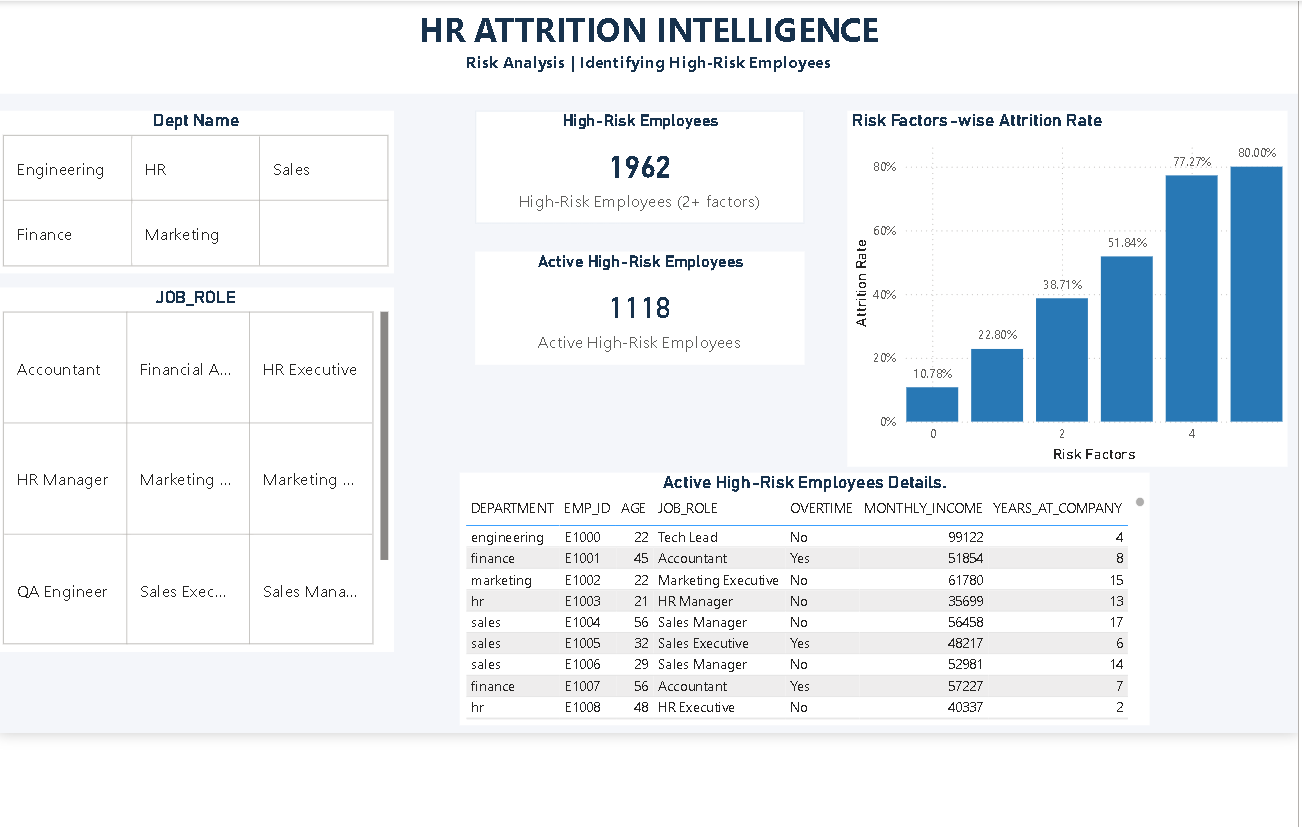
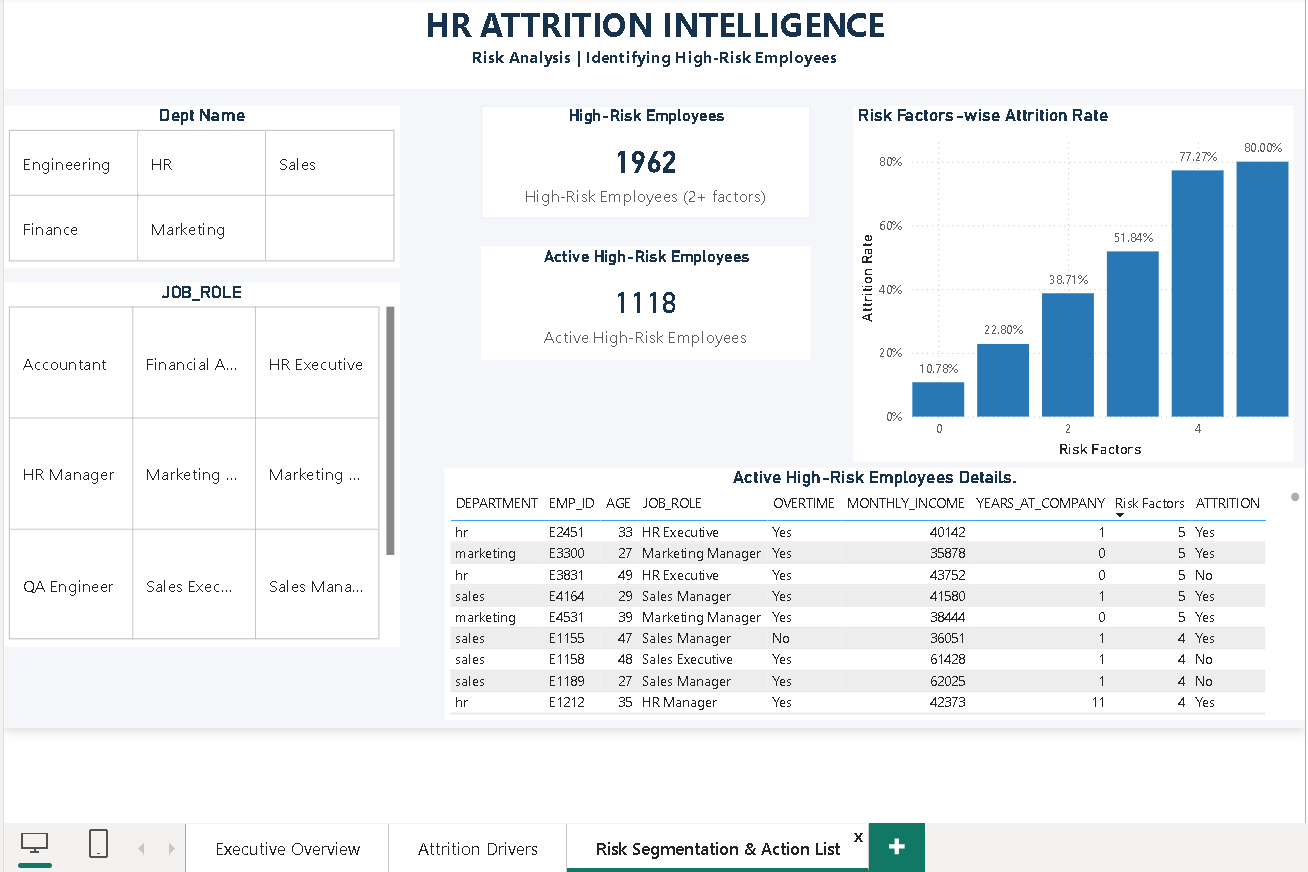
Final update: README aur Power BI page 3 theek kiya

diff --git a/README.md b/README.md
@@ -1,20 +1,20 @@
 # 📊 HR Attrition Intelligence
 
-An end-to-end HR analytics project. I cleaned HR data with SQL in Snowflake, found out why employees leave, trained a model to predict who might leave, and showed the results in a live Streamlit app and a 3-page Power BI dashboard.
+In this project I looked at what is linked to employees leaving a company. I kept the raw HR files in AWS S3, cleaned them with SQL in Snowflake, studied the patterns, trained a model to guess who might leave, and showed the results in a live Streamlit app and a 3-page Power BI dashboard.
 
 🔗 **Live app:** https://hr-attrition-intelligence-adzrfc9t4ztbjwglgojzvc.streamlit.app/
 
 ---
 
-## 🎯 Project Objective
+## 🎯 What this project is about
 
-This project is based on a class case study. The company, TechNova, is made up. It has about 5,000 employees in 5 departments (Sales, Engineering, HR, Marketing, Finance). In the case study, attrition went from 18% to 27% in two quarters, and HR only learned why people left after they had left.
+This project is based on a class case study. The company, TechNova, is made up. It has about 5,000 employees in 5 departments (Sales, Engineering, HR, Marketing and Finance). In the case study, attrition went from 18% to 27% in two quarters. HR only found out why people left after they had already left.
 
-I built this project to find out why employees leave and to see if a model can predict who is likely to leave.
+I wanted to find out what is linked to people leaving, and to see if a model can guess who may leave next.
 
 ---
 
-## 🛠 Tools & Technologies
+## 🛠 Tools I used
 
 | Area | Tools |
 |---|---|
@@ -29,7 +29,7 @@ I built this project to find out why employees leave and to see if a model can p
 
 ---
 
-## 🏗 Project Flow
+## 🏗 How the project works
 
 ```
 Source CSV files (employee info, performance, salary)
@@ -41,32 +41,33 @@ AWS S3 (raw/ folder)
 Snowflake: raw tables -> clean tables -> hr_attrition_final
         |
         v
-Python: EDA charts + Random Forest model
+Python: charts + Random Forest model
         |
         +--> Streamlit app
         +--> Power BI dashboard
 ```
 
-- **AWS S3:** I uploaded the source CSV files to a bucket, in a `raw/` folder.
-- **Snowflake:** I made an external stage that points to the S3 folder and loaded the 3 main files (employee info, performance, salary) into 3 raw tables with `COPY INTO`. Then I cleaned them with SQL (trim spaces, change types, remove duplicates, fill missing job satisfaction with 3) and joined them into one table called `hr_attrition_final`. All the SQL is in `sql/pipeline.sql`.
+- **AWS S3:** I uploaded the source files to a bucket, in a `raw/` folder.
+- **Snowflake:** I made an external stage that points to the S3 folder. Then I loaded the 3 main files (employee info, performance and salary) into 3 raw tables with `COPY INTO`.
+- **SQL cleaning:** I trimmed spaces, changed the data types, removed duplicates and filled missing job satisfaction with 3. Then I joined the 3 tables into one table called `hr_attrition_final`. All the SQL is in `sql/pipeline.sql`.
 - **Python:** `src/eda.py` makes the charts and `src/train_model.py` trains the model.
 - **Streamlit and Power BI:** these show the results.
 
-> **Note:** My Snowflake free trial ended, so the app now reads a CSV copy of the final table (`data/hr_attrition_final.csv`). The file `rebuild_data.py` makes the same table from the source CSVs, using the same cleaning steps as the SQL.
+> **Note:** My Snowflake free trial ended, so the app now reads a CSV copy of the final table (`data/hr_attrition_final.csv`). The file `rebuild_data.py` makes the same table from the source files, using the same cleaning steps as the SQL.
 
 ---
 
-## 📌 Key KPIs
+## 📌 Main numbers
 
-| Metric | Value |
+| What | Value |
 |---|---|
 | Total employees | 4,700 |
-| Employees left | 1,359 |
+| Employees who left | 1,359 |
 | Attrition rate | 28.9% |
 | Average monthly income | ₹61,279 |
-| Current employees with 2+ risk factors | 1,118 |
+| Current employees with 2 or more risk factors | 1,118 |
 
-The data is synthetic (not real).
+The data is made up (synthetic). It is not from a real company.
 
 Columns: EMP_ID, AGE, DEPARTMENT, JOB_ROLE, GENDER, MARITAL_STATUS, PERFORMANCE_RATING, OVERTIME, DISTANCE_FROM_HOME, ATTRITION, MONTHLY_INCOME, YEARS_AT_COMPANY, JOB_SATISFACTION.
 
@@ -74,31 +75,33 @@ Columns: EMP_ID, AGE, DEPARTMENT, JOB_ROLE, GENDER, MARITAL_STATUS, PERFORMANCE_
 
 ## 📈 Power BI Dashboard
 
-I made a 3-page dashboard. The file is `powerbi/HR_Attrition_Dashboard.pbix` (open it with Power BI Desktop on Windows).
+I made a 3-page dashboard in Power BI. The file is `powerbi/HR_Attrition_Dashboard.pbix`. You need Power BI Desktop on Windows to open it.
 
-### 1. Executive Overview
-Total employees, employees left, attrition rate, average income, high-risk employees, and attrition by department, job role and tenure. It also has a decomposition tree.
+### Page 1: Executive Overview
+Total employees, employees who left, attrition rate, average income and high-risk employees. It also shows attrition by department, job role and tenure, and a decomposition tree.
 
 ![Executive overview](outputs/powerbi_executive_overview.png)
 
-### 2. Attrition Drivers
-Attrition rate by distance, income, age, performance, job satisfaction and overtime, plus a Key Influencers chart.
+### Page 2: Attrition Drivers
+Attrition rate by distance, income, age, performance rating, job satisfaction and overtime. There is also a Key Influencers chart.
 
 ![Attrition drivers](outputs/powerbi_attrition_drivers.png)
 
-### 3. Risk Analysis
-A simple risk score made by counting risk factors: overtime, low income, long distance, short tenure and low job satisfaction. Employees with 2 or more risk factors are marked high-risk. The page also shows a list of those employees.
+### Page 3: Risk Analysis
+For every employee I counted 5 risk factors: overtime, low income, long distance, short tenure and low job satisfaction. Employees with 2 or more risk factors are called high-risk. The page also has a table that lists the current employees with 2 or more risk factors, with the highest risk at the top.
 
 ![Risk analysis](outputs/powerbi_risk_analysis.png)
 
-**Dashboard features:** slicers (department, job role, overtime, age group, gender, marital status), KPI cards, decomposition tree, key influencers, and charts that filter each other when you click.
+### What you can do in the dashboard
+- Use slicers for department, job role, overtime, age group, gender and marital status
+- Click on a chart and the other charts change with it
+- Open the decomposition tree and key influencers charts
 
-### 🧮 DAX used
-
+### DAX in the dashboard
 - **Measures:** Total Employees, Employees Left, Attrition Rate, Avg Monthly Income, Avg Tenure, Avg Job Satisfaction, Overtime %, High-Risk Employees
-- **Calculated columns:** Age Group, Income Band, Tenure Band, Distance Band, Risk Factors (counts how many of the 5 risk factors an employee has)
+- **Calculated columns:** Age Group, Income Band, Tenure Band, Distance Band and Risk Factors (counts how many of the 5 risk factors an employee has)
 
-> The data is saved inside the .pbix file. Please don't click Refresh, because it was connected to Snowflake and my trial has ended.
+> The data is saved inside the .pbix file. Please do not click Refresh, because the file was connected to Snowflake and my trial has ended.
 
 ---
 
@@ -106,51 +109,51 @@ A simple risk score made by counting risk factors: overtime, low income, long di
 
 🔗 https://hr-attrition-intelligence-adzrfc9t4ztbjwglgojzvc.streamlit.app/
 
-- **Dashboard tab:** filter by department and tenure, see the main numbers and charts. Clicking a bar in the department chart filters the other charts.
-- **Predict Attrition tab:** enter an employee's details and the model gives a risk result.
+- **Dashboard tab:** filter by department and tenure and see the main numbers and charts. If you click a bar in the department chart, the charts below it change too.
+- **Predict Attrition tab:** type in an employee's details and the model shows a risk result.
 
 ![Streamlit dashboard](outputs/streamlit_dashboard.png)
 ![Streamlit predict](outputs/streamlit_predict.png)
 
 ---
 
-## 🔍 Key Insights
+## 🔍 What the data showed
 
 - Overall attrition is **28.9%**.
-- **Overtime** matters a lot. 41.6% of people who do overtime left, compared to 23.3% of people who don't.
-- **Low salary:** 42.9% left when monthly income was below 45K.
+- **Overtime:** 41.6% of people who do overtime left. For people who do not, it is 23.3%.
+- **Low pay:** 42.9% left when monthly income was below 45K.
 - **New joiners** (0 to 1 years) left the most, at 40.2%.
 - **Long distance:** people living 21 km or more away left more (36.3%).
 - **Job satisfaction:** ratings 1 and 2 had about 35 to 37% attrition. Ratings 3 and 4 had about 22%.
-- **Age** did not make much difference (about 28 to 30% in every age group).
-- **Risk factors stack up.** Attrition goes from 10.8% with no risk factors to about 77% with four.
-- **HR** has the highest attrition (33.4%) and **Finance** the lowest (24.7%).
+- **Age** did not make much difference. It was about 28 to 30% in every age group.
+- **More risk factors, more attrition.** It goes from 10.8% with no risk factors to about 77% with four.
+- **Departments:** HR has the highest attrition (33.4%) and Finance has the lowest (24.7%).
 
-These show what is linked to attrition. They do not prove what causes it.
+This shows what is linked to attrition. It does not prove what causes it.
 
 ---
 
-## 🤖 Machine Learning Model
+## 🤖 The Model
 
-I used a Random Forest. Only about 29% of employees left, so the classes are uneven. I used SMOTE on the training data to balance it, and tuned the model with GridSearchCV. I put SMOTE inside the cross-validation pipeline, so the validation scores are not made better by the extra synthetic rows. I kept 20% of the data aside for testing, and SMOTE was never applied to it.
+I used a Random Forest. Only about 29% of employees left, so there are many more "stayed" rows than "left" rows. To fix this I used SMOTE, which adds extra practice rows for the "left" group. I used SMOTE only on the training part and never on the test data, so the results stay fair. I tuned the model with GridSearchCV and kept 20% of the data aside for testing.
 
-| Result on test data (people who left) | Value |
+| Test result (people who left) | Value |
 |---|---|
 | Accuracy | 0.64 |
 | Precision | 0.39 |
 | Recall | 0.46 |
 | F1 score | 0.42 |
 
-**What this means:** the model is not very strong. It catches about 46% of the people who actually left, and about 39% of the people it flags as "will leave" really do leave. I think this is because the data is synthetic and does not have a very clear pattern. Accuracy is only 64%, which is lower than the 71% you would get by saying "No" for everyone, so accuracy alone is not a good way to judge this model. That is why I looked at precision and recall.
+**What this means:** the model is not very strong. It catches about 46% of the people who really left. Out of the people it marks as "will leave", about 39% really do leave. I think this happens because the data is made up and does not have a very clear pattern. Accuracy is only 64%. If a model said "stayed" for everyone it would get about 71%, so accuracy is not a good way to judge this model. That is why I looked at precision and recall.
 
-Things to know:
+Good to know:
 
 - Feature importance shows what the model used the most. It does not prove what causes people to leave.
-- The model uses age, gender and marital status. In a real HR system these should be checked or removed, because they can lead to unfair results.
+- The model uses age, gender and marital status. In a real HR system these should be checked or removed, because they can make the results unfair.
 
 ---
 
-## 📁 Project Structure
+## 📁 Folder structure
 
 ```
 HR-Attrition-Intelligence/
@@ -191,14 +194,14 @@ HR-Attrition-Intelligence/
 
 ---
 
-## ▶ How to Run
+## ▶ How to run it
 
 ```
 git clone https://github.com/ABHAYMARWADE2004/HR-Attrition-Intelligence.git
 cd HR-Attrition-Intelligence
 
 python -m venv venv
-venv\Scripts\activate
+venv\Scripts\activate          # on Mac or Linux: source venv/bin/activate
 pip install -r requirements.txt
 
 python main.py
@@ -207,9 +210,9 @@ python -m streamlit run app.py
 
 ---
 
-## 🚀 Future Improvements
+## 🚀 What I want to do next
 
-- Improve the model so it catches more of the people who leave (a higher recall)
+- Make the model catch more of the people who leave (a higher recall)
 - Take age, gender and marital status out of the model
 
 ---
